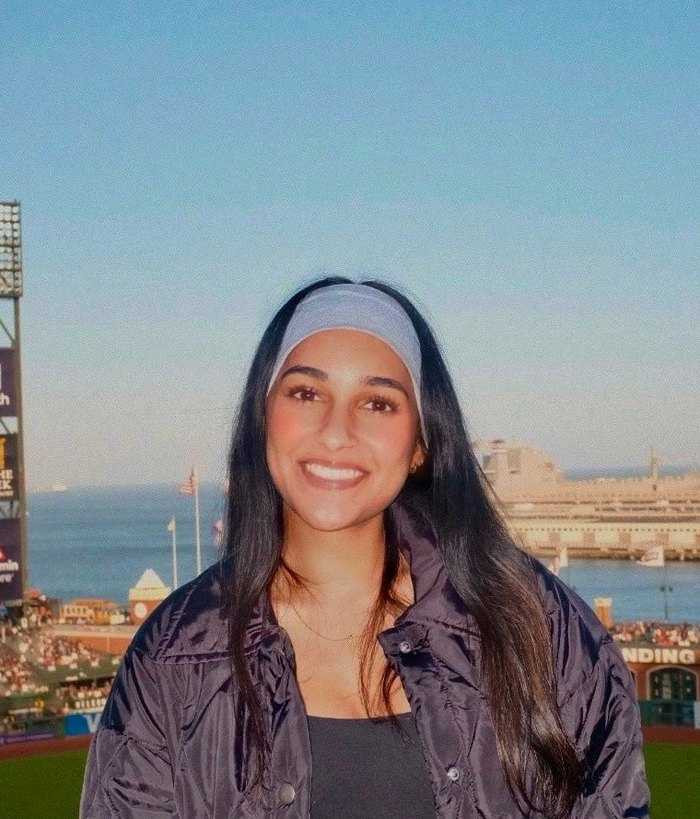
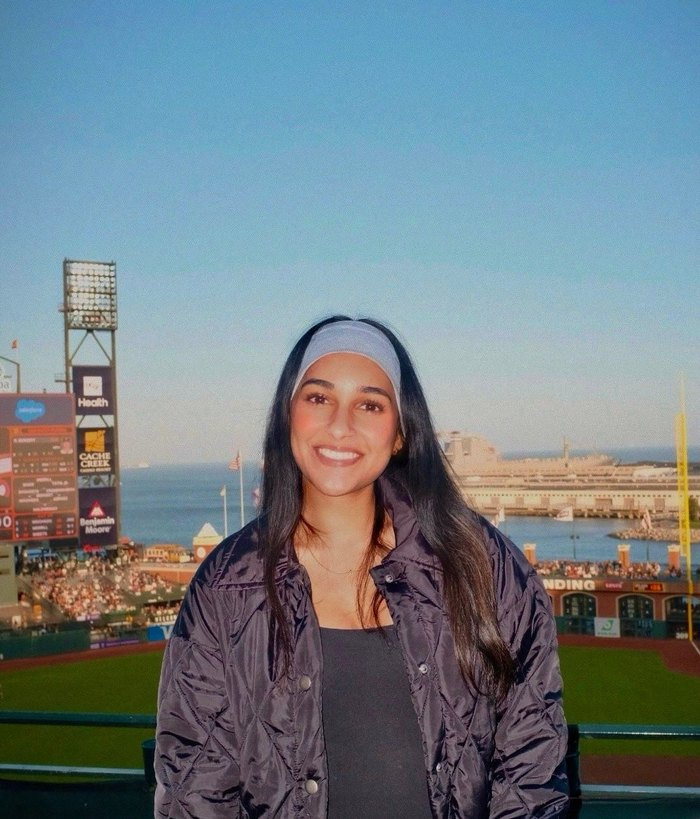
Sticker-and-page-turn intro; wider headshot crop; IBM note below nametag
- Intro: P then K letter stickers are placed one by one on a journal page,
  then the page turns from its spine to reveal the home page (replaces the
  stamp drop, ink ring and zoom)
- About headshot re-cropped wider to mid/lower torso, face still centred
- 'prev. UX @ IBM' moves below the nametag with the arrow pointing up at it,
  at every screen size

Claude-Session: https://claude.ai/code/session_019JkCqxjsDuEhdJf8TVduP6

diff --git a/css/style.css b/css/style.css
@@ -883,93 +883,69 @@ p { margin: 0 0 1em; color: var(--gray-text); }
 .reveal { opacity: 0; transform: translateY(20px); transition: opacity 0.6s ease, transform 0.6s ease; }
 .reveal.in-view { opacity: 1; transform: translateY(0); }
 
-/* ---------------------------------- Intro stamp animation ------------------ */
+/* ---------------------------------- Intro: letter stickers + page turn ---------- */
+/* First visit only (see the inline script in index.html). The P and K stickers are placed
+   one by one on a journal page, then the page turns from its left edge to reveal the home page. */
 
 #intro-overlay {
   display: none;
   position: fixed;
   inset: 0;
   z-index: 999;
-  align-items: center;
-  justify-content: center;
-  background: var(--bg);
+  perspective: 2400px;
   pointer-events: none;
 }
-html.intro-run #intro-overlay { display: flex; }
+html.intro-run #intro-overlay { display: block; }
 
-/* the page fades/zooms in from behind the stamp as it heads to the corner */
-html.intro-run .page-wrap {
-  opacity: 0;
-  transform: scale(1.06);
-  animation: introPageReveal 0.85s cubic-bezier(0.22, 0.7, 0.3, 1) 1.05s forwards;
-}
-@keyframes introPageReveal {
-  to { opacity: 1; transform: scale(1); }
-}
-
-/* outer: handles the move from center screen to the header's logo slot */
-.intro-stamp-pos { will-change: transform; }
-html.intro-run .intro-stamp-pos {
-  animation: introMoveToCorner 0.85s cubic-bezier(0.5, 0, 0.25, 1) 1.05s forwards;
-}
-@keyframes introMoveToCorner {
-  to { transform: translate(calc(-50vw + 42px), calc(-50vh + 50px)); }
-}
-
-/* inner: the stamp-down fall, bounce, and the shrink to header size */
-.intro-stamp {
-  width: 150px;
-  height: auto;
-  opacity: 0;
-  transform: translateY(-32vh) rotate(-11deg) scale(1.1);
-  filter: drop-shadow(0 18px 26px rgba(24, 36, 73, 0.35));
+.intro-page {
+  position: absolute;
+  inset: 0;
+  display: flex;
+  align-items: center;
+  justify-content: center;
+  background-color: var(--bg);
+  background-image: radial-gradient(circle, rgba(24, 36, 73, 0.16) 1px, transparent 1.5px);
+  background-size: 24px 24px;
+  box-shadow: inset 14px 0 22px -14px rgba(24, 36, 73, 0.35);   /* spine of the journal */
+  transform-origin: left center;
+  backface-visibility: hidden;
   will-change: transform;
 }
-html.intro-run .intro-stamp {
-  animation: introStampDown 0.36s cubic-bezier(0.55, 0, 1, 0.45) 0.05s forwards,
-             introStampBounce 0.5s cubic-bezier(0.34, 1.4, 0.64, 1) 0.41s forwards,
-             introStampShrink 0.85s cubic-bezier(0.5, 0, 0.25, 1) 1.05s forwards;
-}
-
-@keyframes introStampDown {
-  0% { opacity: 0; transform: translateY(-32vh) rotate(-11deg) scale(1.1); }
-  100% { opacity: 1; transform: translateY(0) rotate(-4deg) scale(1.1); }
-}
-@keyframes introStampBounce {
-  0% { transform: translateY(0) rotate(-4deg) scale(1.1, 1.1); }
-  28% { transform: translateY(5px) rotate(-4deg) scale(1.22, 0.8); }
-  50% { transform: translateY(-10px) rotate(-4deg) scale(0.88, 1.16); }
-  70% { transform: translateY(3px) rotate(-4deg) scale(1.06, 0.95); }
-  88% { transform: translateY(-2px) rotate(-4deg) scale(0.98, 1.02); }
-  100% { transform: translateY(0) rotate(-4deg) scale(1, 1); }
-}
-@keyframes introStampShrink {
-  0% { transform: translateY(0) rotate(-4deg) scale(1); }
-  100% { transform: translateY(0) rotate(-5deg) scale(0.24); }
-}
-
-.ink-ring {
+/* shading that deepens as the page lifts */
+.intro-page::after {
+  content: '';
   position: absolute;
-  width: 40px;
-  height: 40px;
-  border-radius: 50%;
-  border: 3px solid var(--navy);
+  inset: 0;
+  background: linear-gradient(to left, rgba(24, 36, 73, 0.28), rgba(24, 36, 73, 0) 65%);
   opacity: 0;
-  transform: scale(0.4);
 }
-html.intro-run .ink-ring {
-  animation: introInkRing 0.5s ease-out 0.41s forwards;
+html.intro-run .intro-page { animation: introPageTurn 0.95s cubic-bezier(0.6, 0.05, 0.35, 1) 1.45s forwards; }
+html.intro-run .intro-page::after { animation: introPageShade 0.95s ease-in 1.45s forwards; }
+
+@keyframes introPageTurn {
+  0%   { transform: rotateY(0deg); }
+  100% { transform: rotateY(-180deg); }
 }
-@keyframes introInkRing {
-  0% { opacity: 0.5; transform: scale(0.3); }
-  100% { opacity: 0; transform: scale(4.2); }
+@keyframes introPageShade {
+  0%   { opacity: 0; }
+  60%  { opacity: 1; }
+  100% { opacity: 1; }
 }
 
-html.intro-run #intro-overlay {
-  animation: introOverlayFade 0.3s ease 1.68s forwards;
-}
-@keyframes introOverlayFade {
-  to { opacity: 0; visibility: hidden; }
+/* the letter stickers, placed one by one */
+.intro-letters.brand-letters { font-size: 72px; }
+.intro-letters .lt { opacity: 0; }
+.intro-letters .lt-p { --r: -7deg; --ty: 0em; }
+.intro-letters .lt-k { --r: 6deg; --ty: 0.1em; }
+html.intro-run .intro-letters .lt-p { animation: introStickerDrop 0.55s cubic-bezier(0.2, 0.9, 0.3, 1) 0.15s forwards; }
+html.intro-run .intro-letters .lt-k { animation: introStickerDrop 0.55s cubic-bezier(0.2, 0.9, 0.3, 1) 0.65s forwards; }
+
+@keyframes introStickerDrop {
+  0%   { opacity: 0; transform: translate(-24px, -70px) rotate(calc(var(--r) - 16deg)) scale(1.45); }
+  55%  { opacity: 1; transform: translate(0, var(--ty)) rotate(var(--r)) scale(1); }
+  70%  { transform: translate(0, var(--ty)) rotate(var(--r)) scale(1.09, 0.9); }
+  85%  { transform: translate(0, var(--ty)) rotate(var(--r)) scale(0.97, 1.03); }
+  100% { opacity: 1; transform: translate(0, var(--ty)) rotate(var(--r)) scale(1); }
 }
 
 @media (prefers-reduced-motion: reduce) {

diff --git a/css/sketchbook.css b/css/sketchbook.css
@@ -51,8 +51,6 @@
 .brand:hover .brand-letters .lt-p { transform: rotate(-2deg) translateY(-2px); }
 .brand:hover .brand-letters .lt-k { transform: rotate(1deg) translateY(-1px); }
 
-/* the home-page intro drops the same two letters, larger, then shrinks them into the header */
-.intro-stamp.brand-letters { width: auto; font-size: 58px; }
 
 /* ---------- Pencil cursor ---------- */
 
@@ -189,15 +187,10 @@ button.doodle-chip:focus-visible { outline: 2px solid var(--blue); outline-offse
 
 /* ---------- Hero scrapbook extras (home page) ---------- */
 
-/* "prev. UX @ IBM": handwritten in the margin to the left of the nametag */
-.sticky-board .sketch-ibm { left: -112px; top: 26%; width: 104px; }
+/* "prev. UX @ IBM": handwritten just below the nametag, arrow pointing up at it */
+.sticky-board .sketch-ibm { left: 7%; top: 63%; width: 104px; }
 /* design-loop doodle: in the clear space below-right of the sticky note */
 .sticky-board .sketch-cycle { left: 83%; top: 54%; width: 230px; }
-
-/* narrower screens have no left margin, so the IBM note moves above the nametag */
-@media (max-width: 1060px) {
-  .sticky-board .sketch-ibm { left: 14%; top: -17%; }
-}
 
 /* Coffee receipt fed out from under the notecard (it lives inside .note-blurb, behind the card).
    It prints from the card's left end, where the coffee ring has already curved away. */
@@ -274,7 +267,7 @@ button.doodle-chip:focus-visible { outline: 2px solid var(--blue); outline-offse
 
 /* phone layout of the sticky board (see style.css @480px) */
 @media (max-width: 480px) {
-  .sticky-board .sketch-ibm   { left: 33%; top: -76px; width: 28%; }
+  .sticky-board .sketch-ibm   { left: 0; top: 37%; width: 28%; }
   /* no free space around the notes on phones: the board grows and the loop sits below the notecard */
   .sticky-board.has-cycle { height: 585px; }
   .sticky-board .sketch-cycle { left: 38%; top: 79%; width: 200px; }

diff --git a/js/sketches.js b/js/sketches.js
@@ -58,10 +58,10 @@
   const DOODLES = {
     cycle: ['0 20 240 120', designLoop()],
     ibm: ['0 0 110 104', [
-      ['text', 'prev. UX', { x: 4, y: 26, size: 26 }],
-      ['text', '@ IBM', { x: 14, y: 54, size: 28 }],
-      // arrow curling down toward the nametag
-      ['path', 'M58 62 C60 78 72 88 90 96 M80 97 L91 96 L86 86', 'thin'],
+      // arrow curling up toward the nametag above
+      ['path', 'M30 32 C27 20 33 9 46 3 M36 3 L47 2 L44 12', 'thin'],
+      ['text', 'prev. UX', { x: 4, y: 60, size: 26 }],
+      ['text', '@ IBM', { x: 14, y: 88, size: 28 }],
     ]],
     arrow: ['0 0 120 90', [
       ['path', 'M6 14 C40 2 92 10 100 44 C104 60 98 72 90 82'],

diff --git a/index.html b/index.html
@@ -25,9 +25,8 @@
 </head>
 <body class="dotted-bg">
 <div id="intro-overlay" aria-hidden="true">
-  <span class="ink-ring"></span>
-  <div class="intro-stamp-pos">
-    <div class="intro-stamp brand-letters"><span class="lt lt-p">P</span><span class="lt lt-k">K</span></div>
+  <div class="intro-page">
+    <div class="intro-letters brand-letters"><span class="lt lt-p">P</span><span class="lt lt-k">K</span></div>
   </div>
 </div>
 <a class="skip-link" href="#main">Skip to content</a>

diff --git a/js/main.js b/js/main.js
@@ -1,10 +1,10 @@
-// Intro stamp animation cleanup
+// Intro (letter stickers + page turn) cleanup
 if (document.documentElement.classList.contains('intro-run')) {
   setTimeout(() => {
     document.documentElement.classList.remove('intro-run');
     const overlay = document.getElementById('intro-overlay');
     if (overlay) overlay.remove();
-  }, 2000);
+  }, 2500);
 }
 
 // Mobile nav toggle
